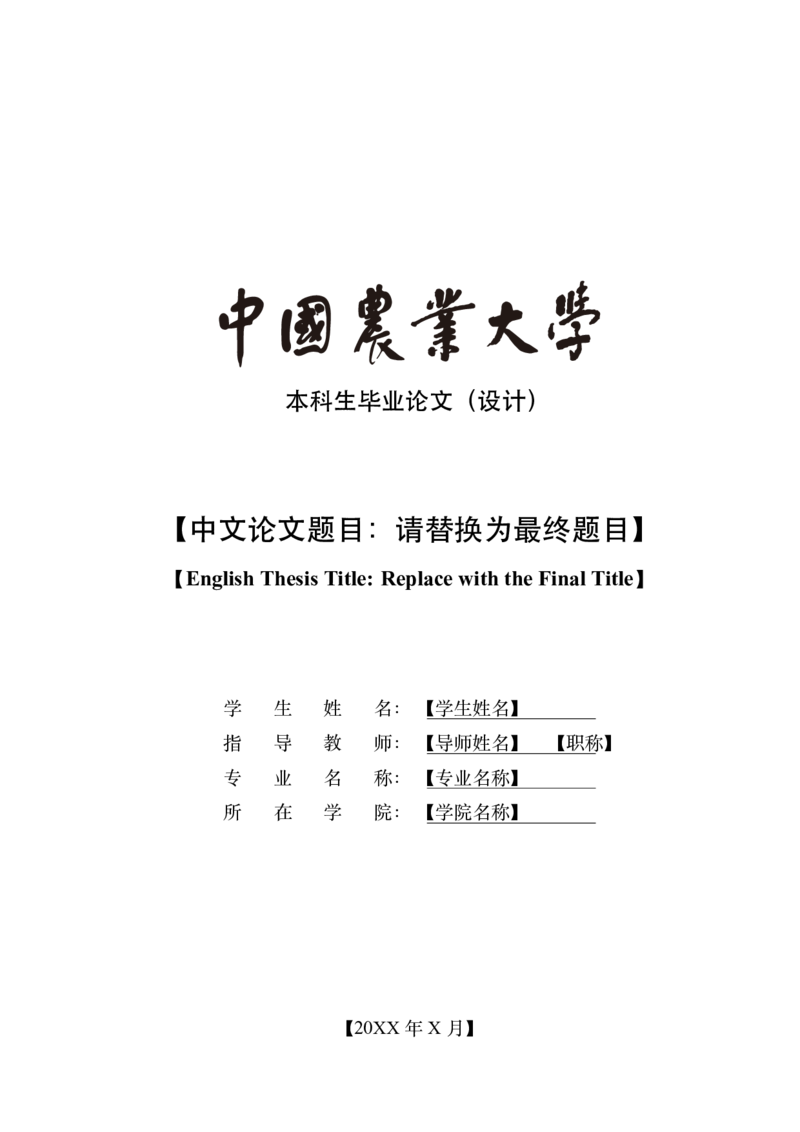
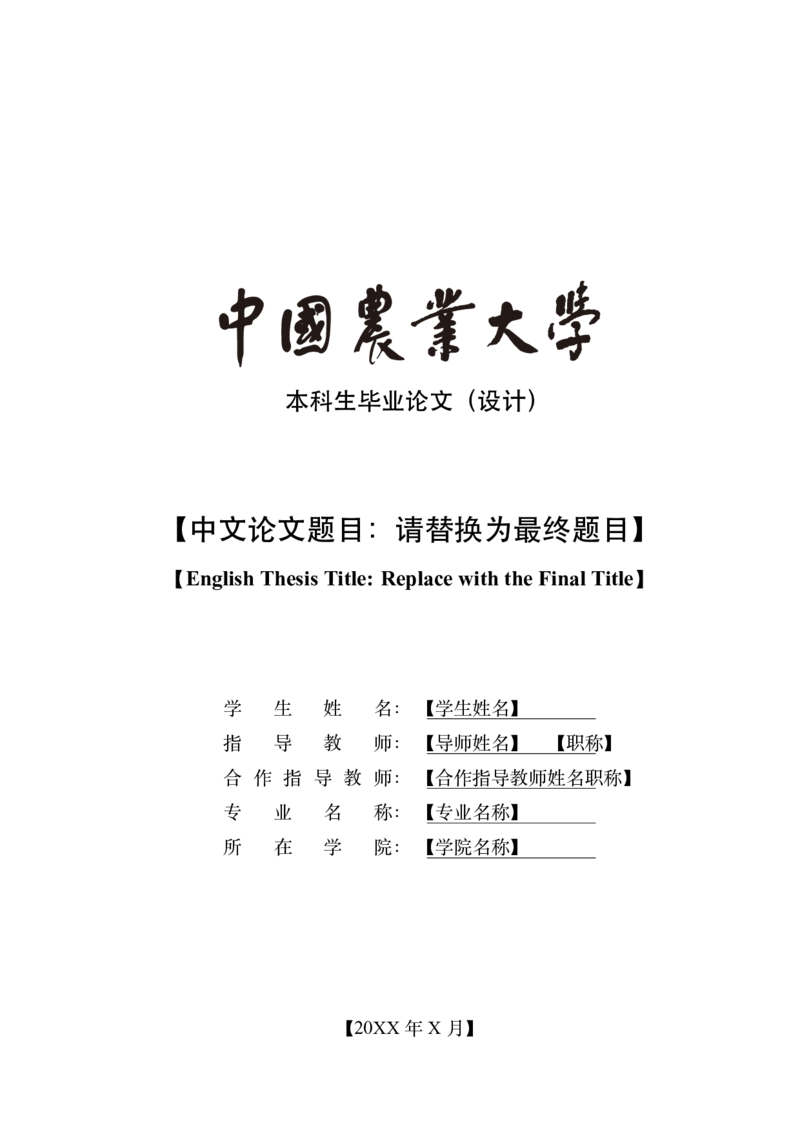
合作指导教师：保留留空就隐藏的逻辑，info.tex 改用占位符让字段可见
之前留空 \coadvisor{} 导致封面默认渲染时该行不出现，新人看模板会
以为没这个字段。但留空隐藏的逻辑本身是对的——有些人确实没有合作
导师，强制显示空下划线反而尴尬。

把责任放在 info.tex 的默认值：用 【合作指导教师姓名 职称】 占位符代
替留空，封面默认有此行（让作者看到字段存在），需要去掉时按注释
"\coadvisor{} 留空封面自动隐藏此行" 操作。

cls 里的条件渲染逻辑回退到 \ifx\@coadvisor\@empty\else ... \fi。

Changed region(s): [[0.5312, 0.6802, 0.8125, 0.773], [0.4062, 0.6802, 0.5, 0.773], [0.2812, 0.6802, 0.375, 0.773]]

diff --git a/examples/graduate/info.tex b/examples/graduate/info.tex
@@ -18,7 +18,7 @@
 \thesistitleen{【English Thesis Title: Replace with the Final Title】}
 \thesisauthor{【研究生姓名】}
 \advisor{【导师姓名】\quad 【职称】}
-\coadvisor{}                                                % 合作指导教师；留空 {} 则封面自动隐藏此行
+\coadvisor{【合作指导教师姓名 职称】}                          % 没有合作指导教师时把整行改为 \coadvisor{} 留空，封面会自动隐藏此行
 \degreecategory{【农学硕士/农学博士/农业硕士/农业博士】}
 \major{【专业名称】}
 \researchfield{【研究方向】}

diff --git a/examples/bachelor/info.tex b/examples/bachelor/info.tex
@@ -15,7 +15,7 @@
 \thesistitleen{【English Thesis Title: Replace with the Final Title】}
 \thesisauthor{【学生姓名】}
 \advisor{【导师姓名】\quad 【职称】}
-\coadvisor{}                                                % 合作指导教师；留空 {} 则封面自动隐藏此行
+\coadvisor{【合作指导教师姓名 职称】}                          % 没有合作指导教师时把整行改为 \coadvisor{} 留空，封面会自动隐藏此行
 \major{【专业名称】}
 \college{【学院名称】}
 \thesisdate{【20XX 年 X 月】}
